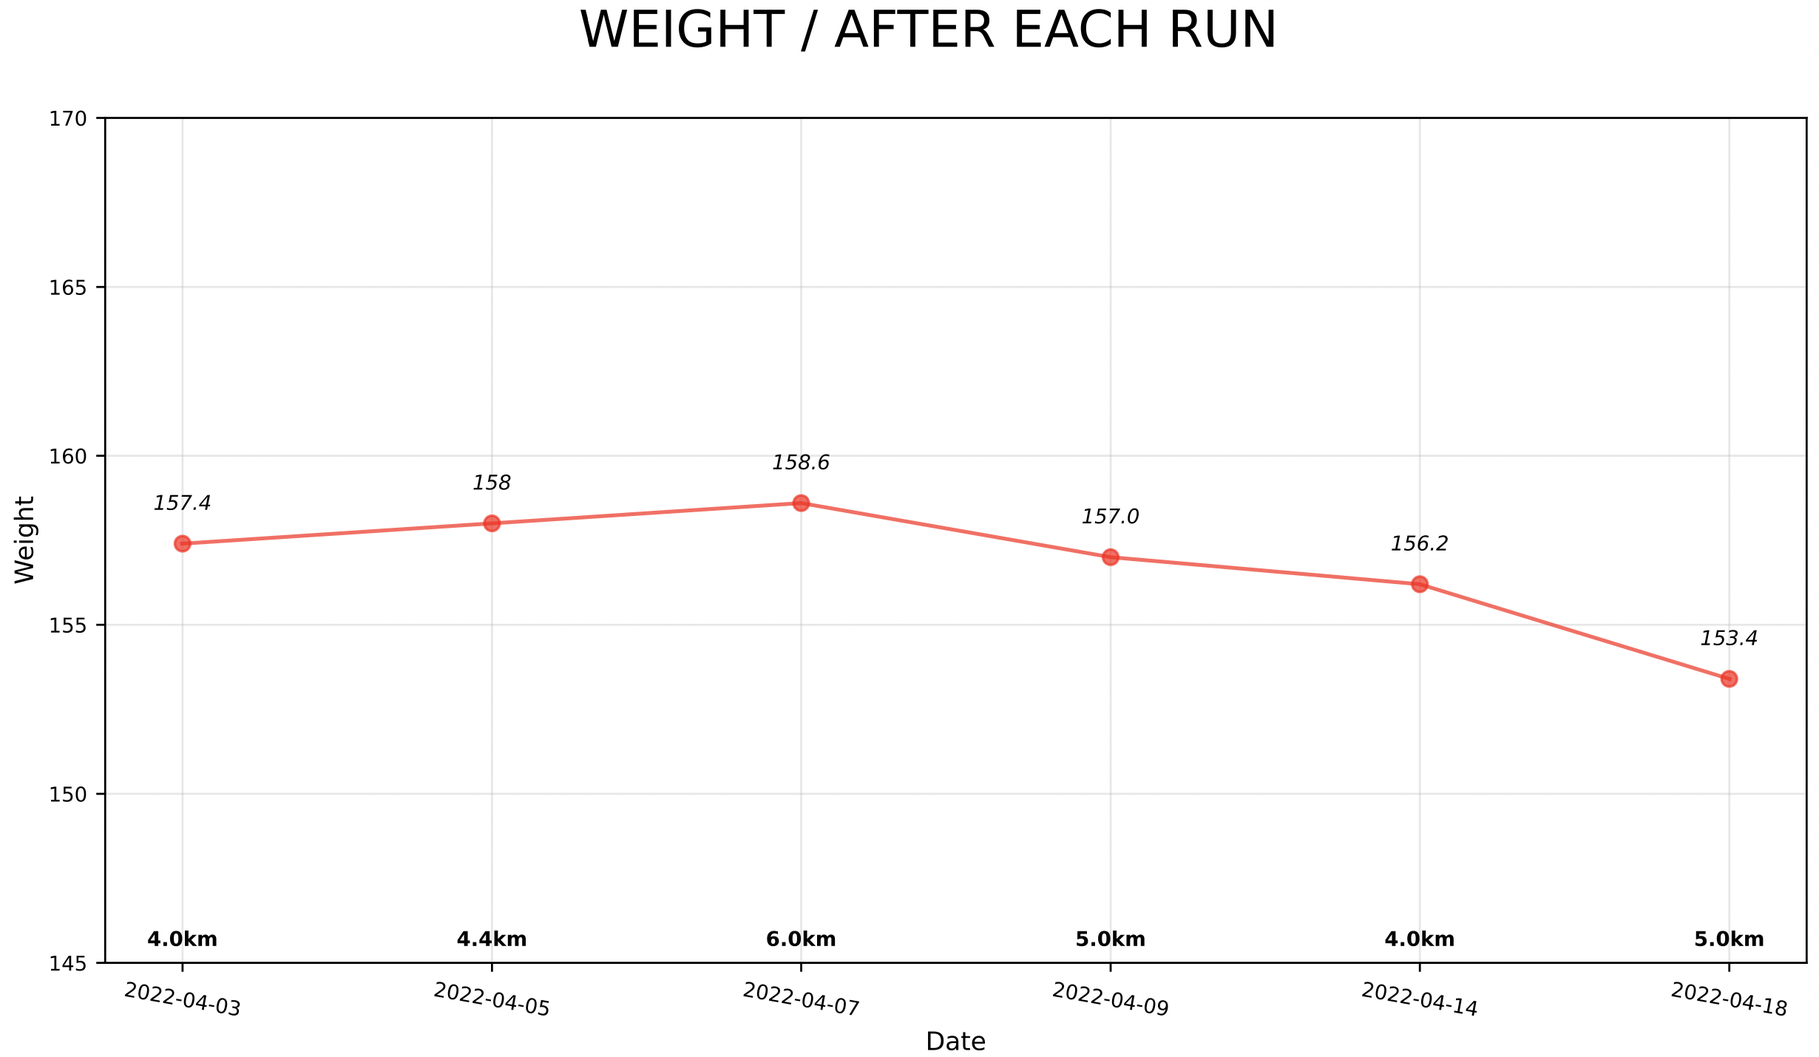
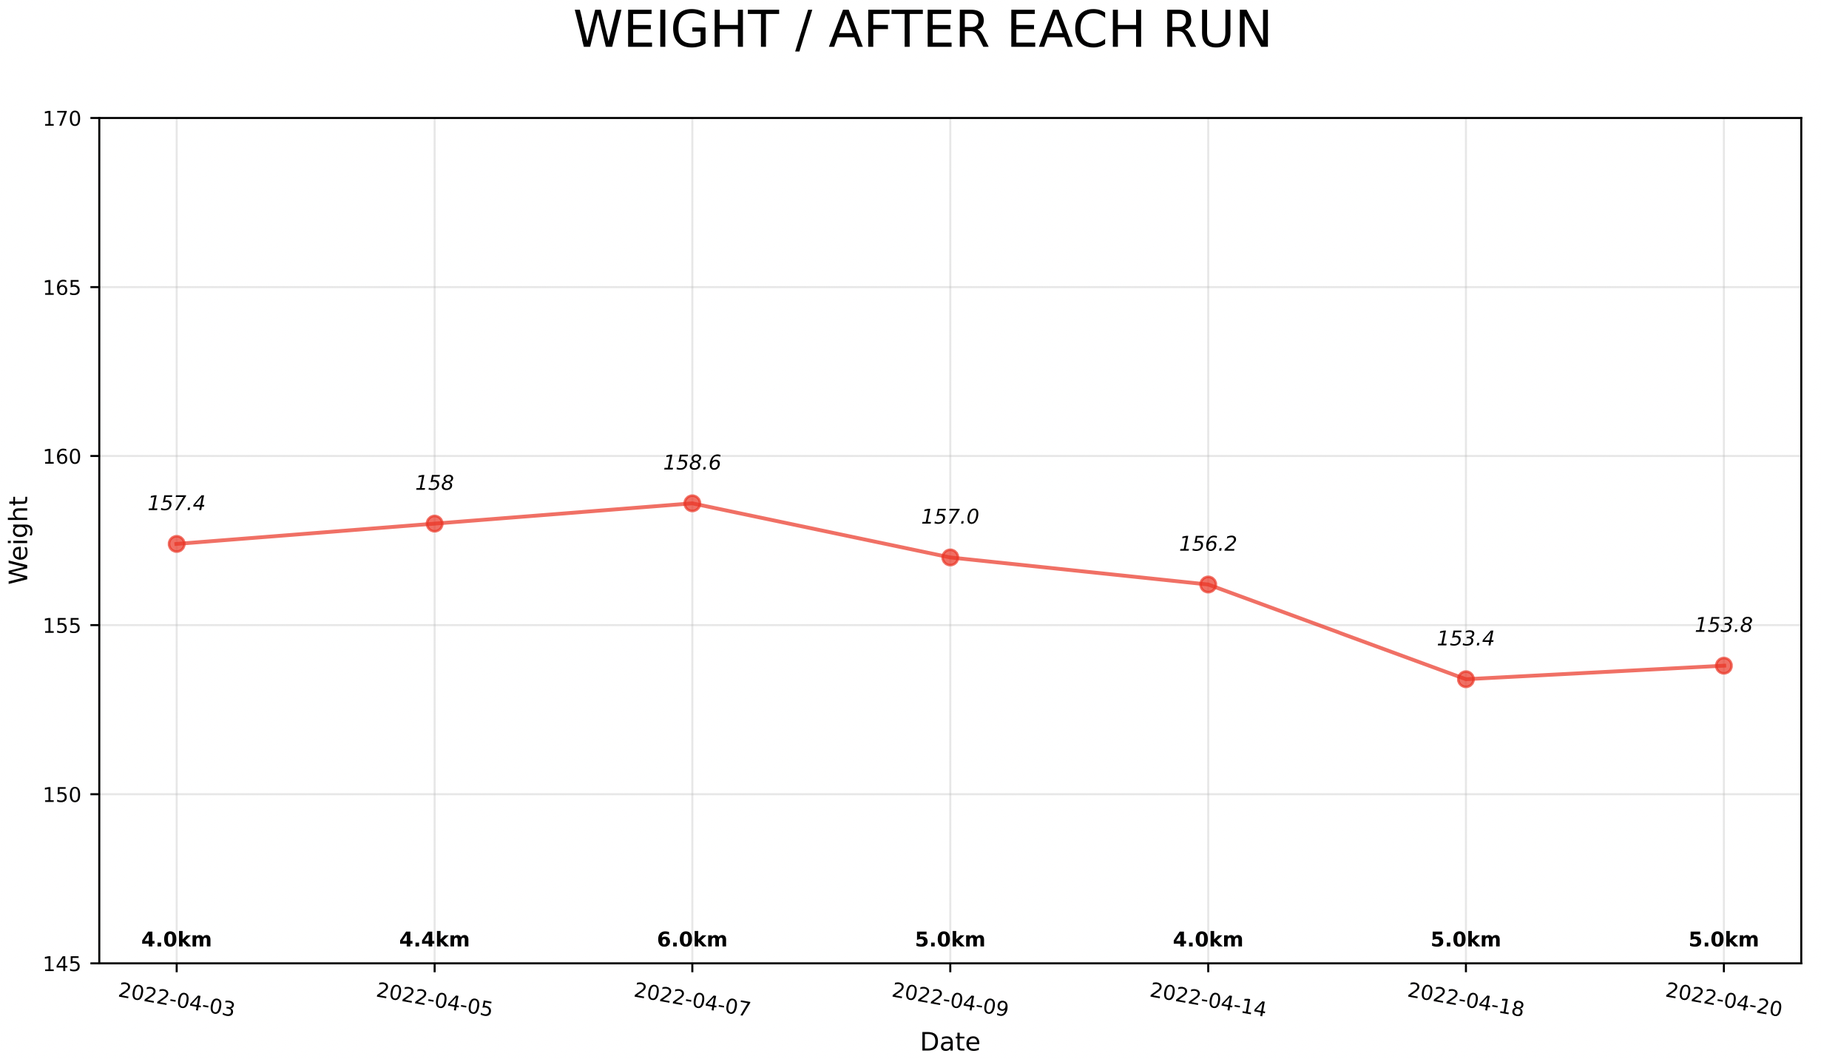
Site updated: 2022-04-20 23:53:14

Changed region(s): [[0.0, 0.0923, 1.0, 1.0], [0.0927, 0.4308, 0.9577, 0.6462], [0.3089, 0.0, 0.7106, 0.0615]]

diff --git a/2022/04/03/running/index.html b/2022/04/03/running/index.html
@@ -20,8 +20,9 @@
 <meta property="og:image" content="http://www.dousir9.top/images/sports/2022-4-9.png">
 <meta property="og:image" content="http://www.dousir9.top/images/sports/2022-4-14.png">
 <meta property="og:image" content="http://www.dousir9.top/images/sports/2022-4-18.png">
+<meta property="og:image" content="http://www.dousir9.top/images/sports/2022-4-20.png">
 <meta property="article:published_time" content="2022-04-03T05:41:55.000Z">
-<meta property="article:modified_time" content="2022-04-18T15:18:37.664Z">
+<meta property="article:modified_time" content="2022-04-20T15:53:03.889Z">
 <meta property="article:author" content="Jinkai Xu">
 <meta name="twitter:card" content="summary">
 <meta name="twitter:image" content="http://www.dousir9.top/images/sports/r.png">
@@ -117,7 +118,7 @@
 
     </div>
     <div id="toc">
-      <ol class="toc"><li class="toc-item toc-level-2"><a class="toc-link" href="#%E4%BD%93%E9%87%8D%E8%B6%8B%E5%8A%BF%E6%80%BB%E8%A7%88%E5%9B%BE%EF%BC%88%E6%AF%8F%E6%AC%A1%E8%B7%91%E6%AD%A5%E5%90%8E%EF%BC%89"><span class="toc-number">1.</span> <span class="toc-text">体重趋势总览图（每次跑步后）</span></a></li><li class="toc-item toc-level-2"><a class="toc-link" href="#2022-04-03"><span class="toc-number">2.</span> <span class="toc-text">2022-04-03</span></a><ol class="toc-child"><li class="toc-item toc-level-3"><a class="toc-link" href="#4-0-%E5%85%AC%E9%87%8C"><span class="toc-number">2.1.</span> <span class="toc-text">4.0 公里</span></a></li><li class="toc-item toc-level-3"><a class="toc-link" href="#%E4%BD%93%E9%87%8D%EF%BC%9A78-7kg"><span class="toc-number">2.2.</span> <span class="toc-text">体重：78.7kg</span></a></li></ol></li><li class="toc-item toc-level-2"><a class="toc-link" href="#2022-04-05"><span class="toc-number">3.</span> <span class="toc-text">2022-04-05</span></a><ol class="toc-child"><li class="toc-item toc-level-3"><a class="toc-link" href="#4-4-%E5%85%AC%E9%87%8C"><span class="toc-number">3.1.</span> <span class="toc-text">4.4 公里</span></a></li><li class="toc-item toc-level-3"><a class="toc-link" href="#%E4%BD%93%E9%87%8D%EF%BC%9A79-0kg"><span class="toc-number">3.2.</span> <span class="toc-text">体重：79.0kg</span></a></li></ol></li><li class="toc-item toc-level-2"><a class="toc-link" href="#2022-04-07"><span class="toc-number">4.</span> <span class="toc-text">2022-04-07</span></a><ol class="toc-child"><li class="toc-item toc-level-3"><a class="toc-link" href="#6-0-%E5%85%AC%E9%87%8C"><span class="toc-number">4.1.</span> <span class="toc-text">6.0 公里</span></a></li><li class="toc-item toc-level-3"><a class="toc-link" href="#%E4%BD%93%E9%87%8D%EF%BC%9A79-3kg"><span class="toc-number">4.2.</span> <span class="toc-text">体重：79.3kg</span></a></li></ol></li><li class="toc-item toc-level-2"><a class="toc-link" href="#2022-04-09"><span class="toc-number">5.</span> <span class="toc-text">2022-04-09</span></a><ol class="toc-child"><li class="toc-item toc-level-3"><a class="toc-link" href="#5-0-%E5%85%AC%E9%87%8C"><span class="toc-number">5.1.</span> <span class="toc-text">5.0 公里</span></a></li><li class="toc-item toc-level-3"><a class="toc-link" href="#%E4%BD%93%E9%87%8D%EF%BC%9A78-5kg"><span class="toc-number">5.2.</span> <span class="toc-text">体重：78.5kg</span></a></li></ol></li><li class="toc-item toc-level-2"><a class="toc-link" href="#2022-04-14"><span class="toc-number">6.</span> <span class="toc-text">2022-04-14</span></a><ol class="toc-child"><li class="toc-item toc-level-3"><a class="toc-link" href="#4-0-%E5%85%AC%E9%87%8C-1"><span class="toc-number">6.1.</span> <span class="toc-text">4.0 公里</span></a></li><li class="toc-item toc-level-3"><a class="toc-link" href="#%E4%BD%93%E9%87%8D%EF%BC%9A78-1kg"><span class="toc-number">6.2.</span> <span class="toc-text">体重：78.1kg</span></a></li></ol></li><li class="toc-item toc-level-2"><a class="toc-link" href="#2022-04-18"><span class="toc-number">7.</span> <span class="toc-text">2022-04-18</span></a><ol class="toc-child"><li class="toc-item toc-level-3"><a class="toc-link" href="#5-0-%E5%85%AC%E9%87%8C-1"><span class="toc-number">7.1.</span> <span class="toc-text">5.0 公里</span></a></li><li class="toc-item toc-level-3"><a class="toc-link" href="#%E4%BD%93%E9%87%8D%EF%BC%9A76-7kg"><span class="toc-number">7.2.</span> <span class="toc-text">体重：76.7kg</span></a></li></ol></li></ol>
+      <ol class="toc"><li class="toc-item toc-level-2"><a class="toc-link" href="#%E4%BD%93%E9%87%8D%E8%B6%8B%E5%8A%BF%E6%80%BB%E8%A7%88%E5%9B%BE%EF%BC%88%E6%AF%8F%E6%AC%A1%E8%B7%91%E6%AD%A5%E5%90%8E%EF%BC%89"><span class="toc-number">1.</span> <span class="toc-text">体重趋势总览图（每次跑步后）</span></a></li><li class="toc-item toc-level-2"><a class="toc-link" href="#2022-04-03"><span class="toc-number">2.</span> <span class="toc-text">2022-04-03</span></a><ol class="toc-child"><li class="toc-item toc-level-3"><a class="toc-link" href="#4-0-%E5%85%AC%E9%87%8C"><span class="toc-number">2.1.</span> <span class="toc-text">4.0 公里</span></a></li><li class="toc-item toc-level-3"><a class="toc-link" href="#%E4%BD%93%E9%87%8D%EF%BC%9A78-7kg"><span class="toc-number">2.2.</span> <span class="toc-text">体重：78.7kg</span></a></li></ol></li><li class="toc-item toc-level-2"><a class="toc-link" href="#2022-04-05"><span class="toc-number">3.</span> <span class="toc-text">2022-04-05</span></a><ol class="toc-child"><li class="toc-item toc-level-3"><a class="toc-link" href="#4-4-%E5%85%AC%E9%87%8C"><span class="toc-number">3.1.</span> <span class="toc-text">4.4 公里</span></a></li><li class="toc-item toc-level-3"><a class="toc-link" href="#%E4%BD%93%E9%87%8D%EF%BC%9A79-0kg"><span class="toc-number">3.2.</span> <span class="toc-text">体重：79.0kg</span></a></li></ol></li><li class="toc-item toc-level-2"><a class="toc-link" href="#2022-04-07"><span class="toc-number">4.</span> <span class="toc-text">2022-04-07</span></a><ol class="toc-child"><li class="toc-item toc-level-3"><a class="toc-link" href="#6-0-%E5%85%AC%E9%87%8C"><span class="toc-number">4.1.</span> <span class="toc-text">6.0 公里</span></a></li><li class="toc-item toc-level-3"><a class="toc-link" href="#%E4%BD%93%E9%87%8D%EF%BC%9A79-3kg"><span class="toc-number">4.2.</span> <span class="toc-text">体重：79.3kg</span></a></li></ol></li><li class="toc-item toc-level-2"><a class="toc-link" href="#2022-04-09"><span class="toc-number">5.</span> <span class="toc-text">2022-04-09</span></a><ol class="toc-child"><li class="toc-item toc-level-3"><a class="toc-link" href="#5-0-%E5%85%AC%E9%87%8C"><span class="toc-number">5.1.</span> <span class="toc-text">5.0 公里</span></a></li><li class="toc-item toc-level-3"><a class="toc-link" href="#%E4%BD%93%E9%87%8D%EF%BC%9A78-5kg"><span class="toc-number">5.2.</span> <span class="toc-text">体重：78.5kg</span></a></li></ol></li><li class="toc-item toc-level-2"><a class="toc-link" href="#2022-04-14"><span class="toc-number">6.</span> <span class="toc-text">2022-04-14</span></a><ol class="toc-child"><li class="toc-item toc-level-3"><a class="toc-link" href="#4-0-%E5%85%AC%E9%87%8C-1"><span class="toc-number">6.1.</span> <span class="toc-text">4.0 公里</span></a></li><li class="toc-item toc-level-3"><a class="toc-link" href="#%E4%BD%93%E9%87%8D%EF%BC%9A78-1kg"><span class="toc-number">6.2.</span> <span class="toc-text">体重：78.1kg</span></a></li></ol></li><li class="toc-item toc-level-2"><a class="toc-link" href="#2022-04-18"><span class="toc-number">7.</span> <span class="toc-text">2022-04-18</span></a><ol class="toc-child"><li class="toc-item toc-level-3"><a class="toc-link" href="#5-0-%E5%85%AC%E9%87%8C-1"><span class="toc-number">7.1.</span> <span class="toc-text">5.0 公里</span></a></li><li class="toc-item toc-level-3"><a class="toc-link" href="#%E4%BD%93%E9%87%8D%EF%BC%9A76-7kg"><span class="toc-number">7.2.</span> <span class="toc-text">体重：76.7kg</span></a></li></ol></li><li class="toc-item toc-level-2"><a class="toc-link" href="#2022-04-20"><span class="toc-number">8.</span> <span class="toc-text">2022-04-20</span></a></li></ol>
     </div>
   </span>
 </div>
@@ -143,7 +144,7 @@
       
         <time datetime="2022-04-03T05:41:55.000Z" itemprop="datePublished">2022-04-03</time>
         
-        (Updated: <time datetime="2022-04-18T15:18:37.664Z" itemprop="dateModified">2022-04-18</time>)
+        (Updated: <time datetime="2022-04-20T15:53:03.889Z" itemprop="dateModified">2022-04-20</time>)
         
       
     </div>
@@ -191,6 +192,10 @@
 <img src="/images/sports/2022-4-18.png" width="50%" height="50%" style="border-radius:10px; float: left">
 
 <hr>
+<h2 id="2022-04-20"><a href="#2022-04-20" class="headerlink" title="2022-04-20"></a>2022-04-20</h2><p>22:00 开完组会，22:30 深夜跑步。</p>
+<img src="/images/sports/2022-4-20.png" width="50%" height="50%" style="border-radius:10px; float: left">
+
+<hr>
 
   </div>
 </article>
@@ -220,7 +225,7 @@
     </div>
 
     <div id="toc-footer" style="display: none">
-      <ol class="toc"><li class="toc-item toc-level-2"><a class="toc-link" href="#%E4%BD%93%E9%87%8D%E8%B6%8B%E5%8A%BF%E6%80%BB%E8%A7%88%E5%9B%BE%EF%BC%88%E6%AF%8F%E6%AC%A1%E8%B7%91%E6%AD%A5%E5%90%8E%EF%BC%89"><span class="toc-number">1.</span> <span class="toc-text">体重趋势总览图（每次跑步后）</span></a></li><li class="toc-item toc-level-2"><a class="toc-link" href="#2022-04-03"><span class="toc-number">2.</span> <span class="toc-text">2022-04-03</span></a><ol class="toc-child"><li class="toc-item toc-level-3"><a class="toc-link" href="#4-0-%E5%85%AC%E9%87%8C"><span class="toc-number">2.1.</span> <span class="toc-text">4.0 公里</span></a></li><li class="toc-item toc-level-3"><a class="toc-link" href="#%E4%BD%93%E9%87%8D%EF%BC%9A78-7kg"><span class="toc-number">2.2.</span> <span class="toc-text">体重：78.7kg</span></a></li></ol></li><li class="toc-item toc-level-2"><a class="toc-link" href="#2022-04-05"><span class="toc-number">3.</span> <span class="toc-text">2022-04-05</span></a><ol class="toc-child"><li class="toc-item toc-level-3"><a class="toc-link" href="#4-4-%E5%85%AC%E9%87%8C"><span class="toc-number">3.1.</span> <span class="toc-text">4.4 公里</span></a></li><li class="toc-item toc-level-3"><a class="toc-link" href="#%E4%BD%93%E9%87%8D%EF%BC%9A79-0kg"><span class="toc-number">3.2.</span> <span class="toc-text">体重：79.0kg</span></a></li></ol></li><li class="toc-item toc-level-2"><a class="toc-link" href="#2022-04-07"><span class="toc-number">4.</span> <span class="toc-text">2022-04-07</span></a><ol class="toc-child"><li class="toc-item toc-level-3"><a class="toc-link" href="#6-0-%E5%85%AC%E9%87%8C"><span class="toc-number">4.1.</span> <span class="toc-text">6.0 公里</span></a></li><li class="toc-item toc-level-3"><a class="toc-link" href="#%E4%BD%93%E9%87%8D%EF%BC%9A79-3kg"><span class="toc-number">4.2.</span> <span class="toc-text">体重：79.3kg</span></a></li></ol></li><li class="toc-item toc-level-2"><a class="toc-link" href="#2022-04-09"><span class="toc-number">5.</span> <span class="toc-text">2022-04-09</span></a><ol class="toc-child"><li class="toc-item toc-level-3"><a class="toc-link" href="#5-0-%E5%85%AC%E9%87%8C"><span class="toc-number">5.1.</span> <span class="toc-text">5.0 公里</span></a></li><li class="toc-item toc-level-3"><a class="toc-link" href="#%E4%BD%93%E9%87%8D%EF%BC%9A78-5kg"><span class="toc-number">5.2.</span> <span class="toc-text">体重：78.5kg</span></a></li></ol></li><li class="toc-item toc-level-2"><a class="toc-link" href="#2022-04-14"><span class="toc-number">6.</span> <span class="toc-text">2022-04-14</span></a><ol class="toc-child"><li class="toc-item toc-level-3"><a class="toc-link" href="#4-0-%E5%85%AC%E9%87%8C-1"><span class="toc-number">6.1.</span> <span class="toc-text">4.0 公里</span></a></li><li class="toc-item toc-level-3"><a class="toc-link" href="#%E4%BD%93%E9%87%8D%EF%BC%9A78-1kg"><span class="toc-number">6.2.</span> <span class="toc-text">体重：78.1kg</span></a></li></ol></li><li class="toc-item toc-level-2"><a class="toc-link" href="#2022-04-18"><span class="toc-number">7.</span> <span class="toc-text">2022-04-18</span></a><ol class="toc-child"><li class="toc-item toc-level-3"><a class="toc-link" href="#5-0-%E5%85%AC%E9%87%8C-1"><span class="toc-number">7.1.</span> <span class="toc-text">5.0 公里</span></a></li><li class="toc-item toc-level-3"><a class="toc-link" href="#%E4%BD%93%E9%87%8D%EF%BC%9A76-7kg"><span class="toc-number">7.2.</span> <span class="toc-text">体重：76.7kg</span></a></li></ol></li></ol>
+      <ol class="toc"><li class="toc-item toc-level-2"><a class="toc-link" href="#%E4%BD%93%E9%87%8D%E8%B6%8B%E5%8A%BF%E6%80%BB%E8%A7%88%E5%9B%BE%EF%BC%88%E6%AF%8F%E6%AC%A1%E8%B7%91%E6%AD%A5%E5%90%8E%EF%BC%89"><span class="toc-number">1.</span> <span class="toc-text">体重趋势总览图（每次跑步后）</span></a></li><li class="toc-item toc-level-2"><a class="toc-link" href="#2022-04-03"><span class="toc-number">2.</span> <span class="toc-text">2022-04-03</span></a><ol class="toc-child"><li class="toc-item toc-level-3"><a class="toc-link" href="#4-0-%E5%85%AC%E9%87%8C"><span class="toc-number">2.1.</span> <span class="toc-text">4.0 公里</span></a></li><li class="toc-item toc-level-3"><a class="toc-link" href="#%E4%BD%93%E9%87%8D%EF%BC%9A78-7kg"><span class="toc-number">2.2.</span> <span class="toc-text">体重：78.7kg</span></a></li></ol></li><li class="toc-item toc-level-2"><a class="toc-link" href="#2022-04-05"><span class="toc-number">3.</span> <span class="toc-text">2022-04-05</span></a><ol class="toc-child"><li class="toc-item toc-level-3"><a class="toc-link" href="#4-4-%E5%85%AC%E9%87%8C"><span class="toc-number">3.1.</span> <span class="toc-text">4.4 公里</span></a></li><li class="toc-item toc-level-3"><a class="toc-link" href="#%E4%BD%93%E9%87%8D%EF%BC%9A79-0kg"><span class="toc-number">3.2.</span> <span class="toc-text">体重：79.0kg</span></a></li></ol></li><li class="toc-item toc-level-2"><a class="toc-link" href="#2022-04-07"><span class="toc-number">4.</span> <span class="toc-text">2022-04-07</span></a><ol class="toc-child"><li class="toc-item toc-level-3"><a class="toc-link" href="#6-0-%E5%85%AC%E9%87%8C"><span class="toc-number">4.1.</span> <span class="toc-text">6.0 公里</span></a></li><li class="toc-item toc-level-3"><a class="toc-link" href="#%E4%BD%93%E9%87%8D%EF%BC%9A79-3kg"><span class="toc-number">4.2.</span> <span class="toc-text">体重：79.3kg</span></a></li></ol></li><li class="toc-item toc-level-2"><a class="toc-link" href="#2022-04-09"><span class="toc-number">5.</span> <span class="toc-text">2022-04-09</span></a><ol class="toc-child"><li class="toc-item toc-level-3"><a class="toc-link" href="#5-0-%E5%85%AC%E9%87%8C"><span class="toc-number">5.1.</span> <span class="toc-text">5.0 公里</span></a></li><li class="toc-item toc-level-3"><a class="toc-link" href="#%E4%BD%93%E9%87%8D%EF%BC%9A78-5kg"><span class="toc-number">5.2.</span> <span class="toc-text">体重：78.5kg</span></a></li></ol></li><li class="toc-item toc-level-2"><a class="toc-link" href="#2022-04-14"><span class="toc-number">6.</span> <span class="toc-text">2022-04-14</span></a><ol class="toc-child"><li class="toc-item toc-level-3"><a class="toc-link" href="#4-0-%E5%85%AC%E9%87%8C-1"><span class="toc-number">6.1.</span> <span class="toc-text">4.0 公里</span></a></li><li class="toc-item toc-level-3"><a class="toc-link" href="#%E4%BD%93%E9%87%8D%EF%BC%9A78-1kg"><span class="toc-number">6.2.</span> <span class="toc-text">体重：78.1kg</span></a></li></ol></li><li class="toc-item toc-level-2"><a class="toc-link" href="#2022-04-18"><span class="toc-number">7.</span> <span class="toc-text">2022-04-18</span></a><ol class="toc-child"><li class="toc-item toc-level-3"><a class="toc-link" href="#5-0-%E5%85%AC%E9%87%8C-1"><span class="toc-number">7.1.</span> <span class="toc-text">5.0 公里</span></a></li><li class="toc-item toc-level-3"><a class="toc-link" href="#%E4%BD%93%E9%87%8D%EF%BC%9A76-7kg"><span class="toc-number">7.2.</span> <span class="toc-text">体重：76.7kg</span></a></li></ol></li><li class="toc-item toc-level-2"><a class="toc-link" href="#2022-04-20"><span class="toc-number">8.</span> <span class="toc-text">2022-04-20</span></a></li></ol>
     </div>
 
     <div id="share-footer" style="display: none">

diff --git a/2022/04/04/2022-4/index.html b/2022/04/04/2022-4/index.html
@@ -14,7 +14,7 @@
 <meta property="og:description" content="2022-04-04上午 毕设：学习 redis-rs  下午 毕设  晚上还是 TM 的毕设 每日一题  2022-04-05上午 每日一题 毕设：优化 create table 评测  下午 毕设：完成 “优化 create table 评测”，与原始进行比较：评测速度提高 20 倍，画图展示 数据库查询优化：看《SQL Server查询优化》书  晚上 数据库查询优化：《SQL Server">
 <meta property="og:locale" content="en_US">
 <meta property="article:published_time" content="2022-04-04T06:25:29.000Z">
-<meta property="article:modified_time" content="2022-04-20T13:25:59.064Z">
+<meta property="article:modified_time" content="2022-04-20T15:52:45.828Z">
 <meta property="article:author" content="Jinkai Xu">
 <meta name="twitter:card" content="summary">
     
@@ -135,7 +135,7 @@
       
         <time datetime="2022-04-04T06:25:29.000Z" itemprop="datePublished">2022-04-04</time>
         
-        (Updated: <time datetime="2022-04-20T13:25:59.064Z" itemprop="dateModified">2022-04-20</time>)
+        (Updated: <time datetime="2022-04-20T15:52:45.828Z" itemprop="dateModified">2022-04-20</time>)
         
       
     </div>
@@ -359,8 +359,8 @@
 <h2 id="晚上：-1"><a href="#晚上：-1" class="headerlink" title="晚上："></a>晚上：</h2><ol>
 <li>毕设检查</li>
 <li>组会</li>
-<li></li>
 </ol>
+<hr>
 
   </div>
 </article>

diff --git a/archives/2022/04/index.html b/archives/2022/04/index.html
@@ -103,7 +103,31 @@
     <div class="meta">
       
         
-          <time datetime="2022-04-20T13:25:59.064Z" itemprop="dateModified">2022-04-20</time>
+          <time datetime="2022-04-20T15:53:03.889Z" itemprop="dateModified">2022-04-20</time>
+        
+      
+    </div>
+
+
+        <span>
+    
+        <a class="" href="/2022/04/03/running/">running</a>
+    
+
+
+</span>
+      </li>
+    
+      
+      
+      
+      
+      <li class="post-item">
+        
+    <div class="meta">
+      
+        
+          <time datetime="2022-04-20T15:52:45.828Z" itemprop="dateModified">2022-04-20</time>
         
       
     </div>
@@ -136,30 +160,6 @@
         <span>
     
         <a class="" href="/2022/04/05/rust-leetcode/">rust leetcode</a>
-    
-
-
-</span>
-      </li>
-    
-      
-      
-      
-      
-      <li class="post-item">
-        
-    <div class="meta">
-      
-        
-          <time datetime="2022-04-18T15:18:37.664Z" itemprop="dateModified">2022-04-18</time>
-        
-      
-    </div>
-
-
-        <span>
-    
-        <a class="" href="/2022/04/03/running/">running</a>
     
 
 

diff --git a/archives/2022/index.html b/archives/2022/index.html
@@ -103,7 +103,31 @@
     <div class="meta">
       
         
-          <time datetime="2022-04-20T13:25:59.064Z" itemprop="dateModified">2022-04-20</time>
+          <time datetime="2022-04-20T15:53:03.889Z" itemprop="dateModified">2022-04-20</time>
+        
+      
+    </div>
+
+
+        <span>
+    
+        <a class="" href="/2022/04/03/running/">running</a>
+    
+
+
+</span>
+      </li>
+    
+      
+      
+      
+      
+      <li class="post-item">
+        
+    <div class="meta">
+      
+        
+          <time datetime="2022-04-20T15:52:45.828Z" itemprop="dateModified">2022-04-20</time>
         
       
     </div>
@@ -136,30 +160,6 @@
         <span>
     
         <a class="" href="/2022/04/05/rust-leetcode/">rust leetcode</a>
-    
-
-
-</span>
-      </li>
-    
-      
-      
-      
-      
-      <li class="post-item">
-        
-    <div class="meta">
-      
-        
-          <time datetime="2022-04-18T15:18:37.664Z" itemprop="dateModified">2022-04-18</time>
-        
-      
-    </div>
-
-
-        <span>
-    
-        <a class="" href="/2022/04/03/running/">running</a>
     
 
 

diff --git a/archives/index.html b/archives/index.html
@@ -103,7 +103,31 @@
     <div class="meta">
       
         
-          <time datetime="2022-04-20T13:25:59.064Z" itemprop="dateModified">2022-04-20</time>
+          <time datetime="2022-04-20T15:53:03.889Z" itemprop="dateModified">2022-04-20</time>
+        
+      
+    </div>
+
+
+        <span>
+    
+        <a class="" href="/2022/04/03/running/">running</a>
+    
+
+
+</span>
+      </li>
+    
+      
+      
+      
+      
+      <li class="post-item">
+        
+    <div class="meta">
+      
+        
+          <time datetime="2022-04-20T15:52:45.828Z" itemprop="dateModified">2022-04-20</time>
         
       
     </div>
@@ -136,30 +160,6 @@
         <span>
     
         <a class="" href="/2022/04/05/rust-leetcode/">rust leetcode</a>
-    
-
-
-</span>
-      </li>
-    
-      
-      
-      
-      
-      <li class="post-item">
-        
-    <div class="meta">
-      
-        
-          <time datetime="2022-04-18T15:18:37.664Z" itemprop="dateModified">2022-04-18</time>
-        
-      
-    </div>
-
-
-        <span>
-    
-        <a class="" href="/2022/04/03/running/">running</a>
     
 
 

diff --git a/index.html b/index.html
@@ -147,7 +147,27 @@
     <div class="meta">
       
         
-          <time datetime="2022-04-20T13:25:59.064Z" itemprop="dateModified">2022-04-20</time>
+          <time datetime="2022-04-20T15:53:03.889Z" itemprop="dateModified">2022-04-20</time>
+        
+      
+    </div>
+
+
+        <span>
+    
+        <a class="" href="/2022/04/03/running/">running</a>
+    
+
+
+</span>
+      </li>
+    
+      <li class="post-item">
+        
+    <div class="meta">
+      
+        
+          <time datetime="2022-04-20T15:52:45.828Z" itemprop="dateModified">2022-04-20</time>
         
       
     </div>
@@ -176,26 +196,6 @@
         <span>
     
         <a class="" href="/2022/04/05/rust-leetcode/">rust leetcode</a>
-    
-
-
-</span>
-      </li>
-    
-      <li class="post-item">
-        
-    <div class="meta">
-      
-        
-          <time datetime="2022-04-18T15:18:37.664Z" itemprop="dateModified">2022-04-18</time>
-        
-      
-    </div>
-
-
-        <span>
-    
-        <a class="" href="/2022/04/03/running/">running</a>
     
 
 
